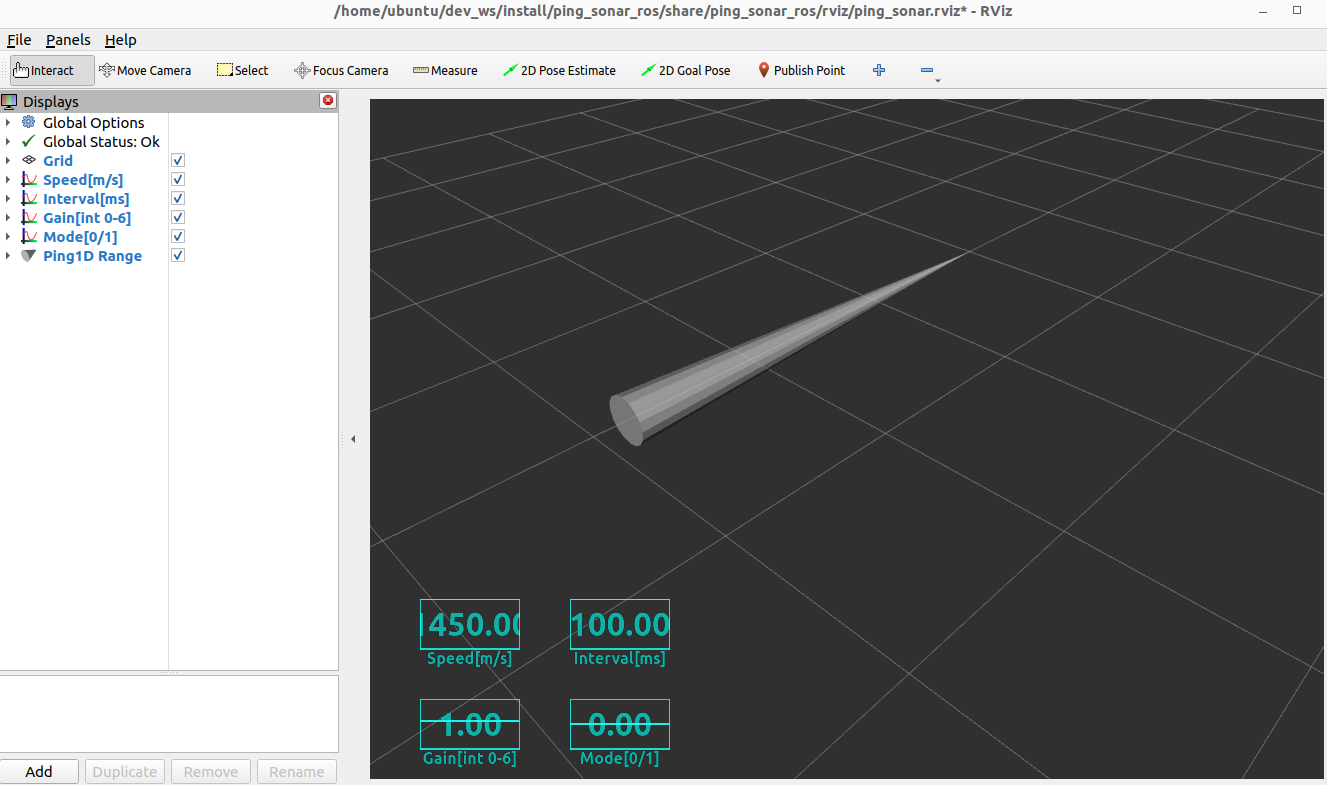
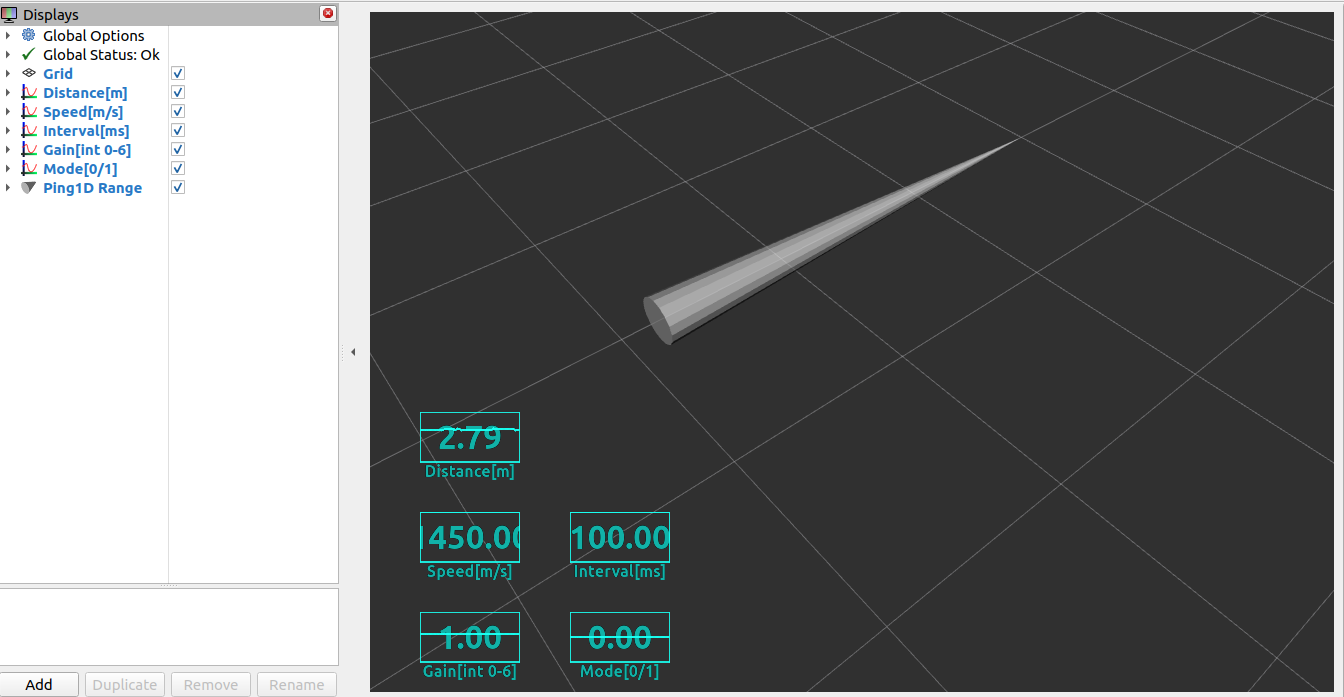
update ping1d

diff --git a/ping_sonar_ros/ping1d_component.py b/ping_sonar_ros/ping1d_component.py
@@ -14,6 +14,7 @@ class Ping1dComponent(Node):
   def __init__(self):
     super().__init__("ping1d_node")
     self.publisher_ = self.create_publisher(Range, "/ping1d/range", 10)
+    self.dist_pub_ = self.create_publisher(Float32, "/ping1d/data", 10)
     self.speed_pub_ = self.create_publisher(Float32, "/ping1d/param/speed", 10)
     self.interval_pub_ = self.create_publisher(Float32, "/ping1d/param/interval", 10)
     self.gain_pub_ = self.create_publisher(Float32, "/ping1d/param/gain", 10)
@@ -114,14 +115,17 @@ class Ping1dComponent(Node):
     self.publisher_.publish(range_msg)
     self.get_logger().info("Publishing range: {}".format(range_msg.range))
 
+    dist_msg = Float32()
     speed_msg = Float32()
     interval_msg = Float32()
     gain_msg = Float32()
     mode_msg = Float32()
+    dist_msg.data = float(simple_data["distance"]/1000)
     speed_msg.data = float(speed_sound["speed_of_sound"]/1000)
     interval_msg.data = float(interval["ping_interval"])
     gain_msg.data = float(gain["gain_setting"])
     mode_msg.data = float(mode_auto["mode_auto"])
+    self.dist_pub_.publish(dist_msg)
     self.speed_pub_.publish(speed_msg)
     self.interval_pub_.publish(interval_msg)
     self.gain_pub_.publish(gain_msg)
